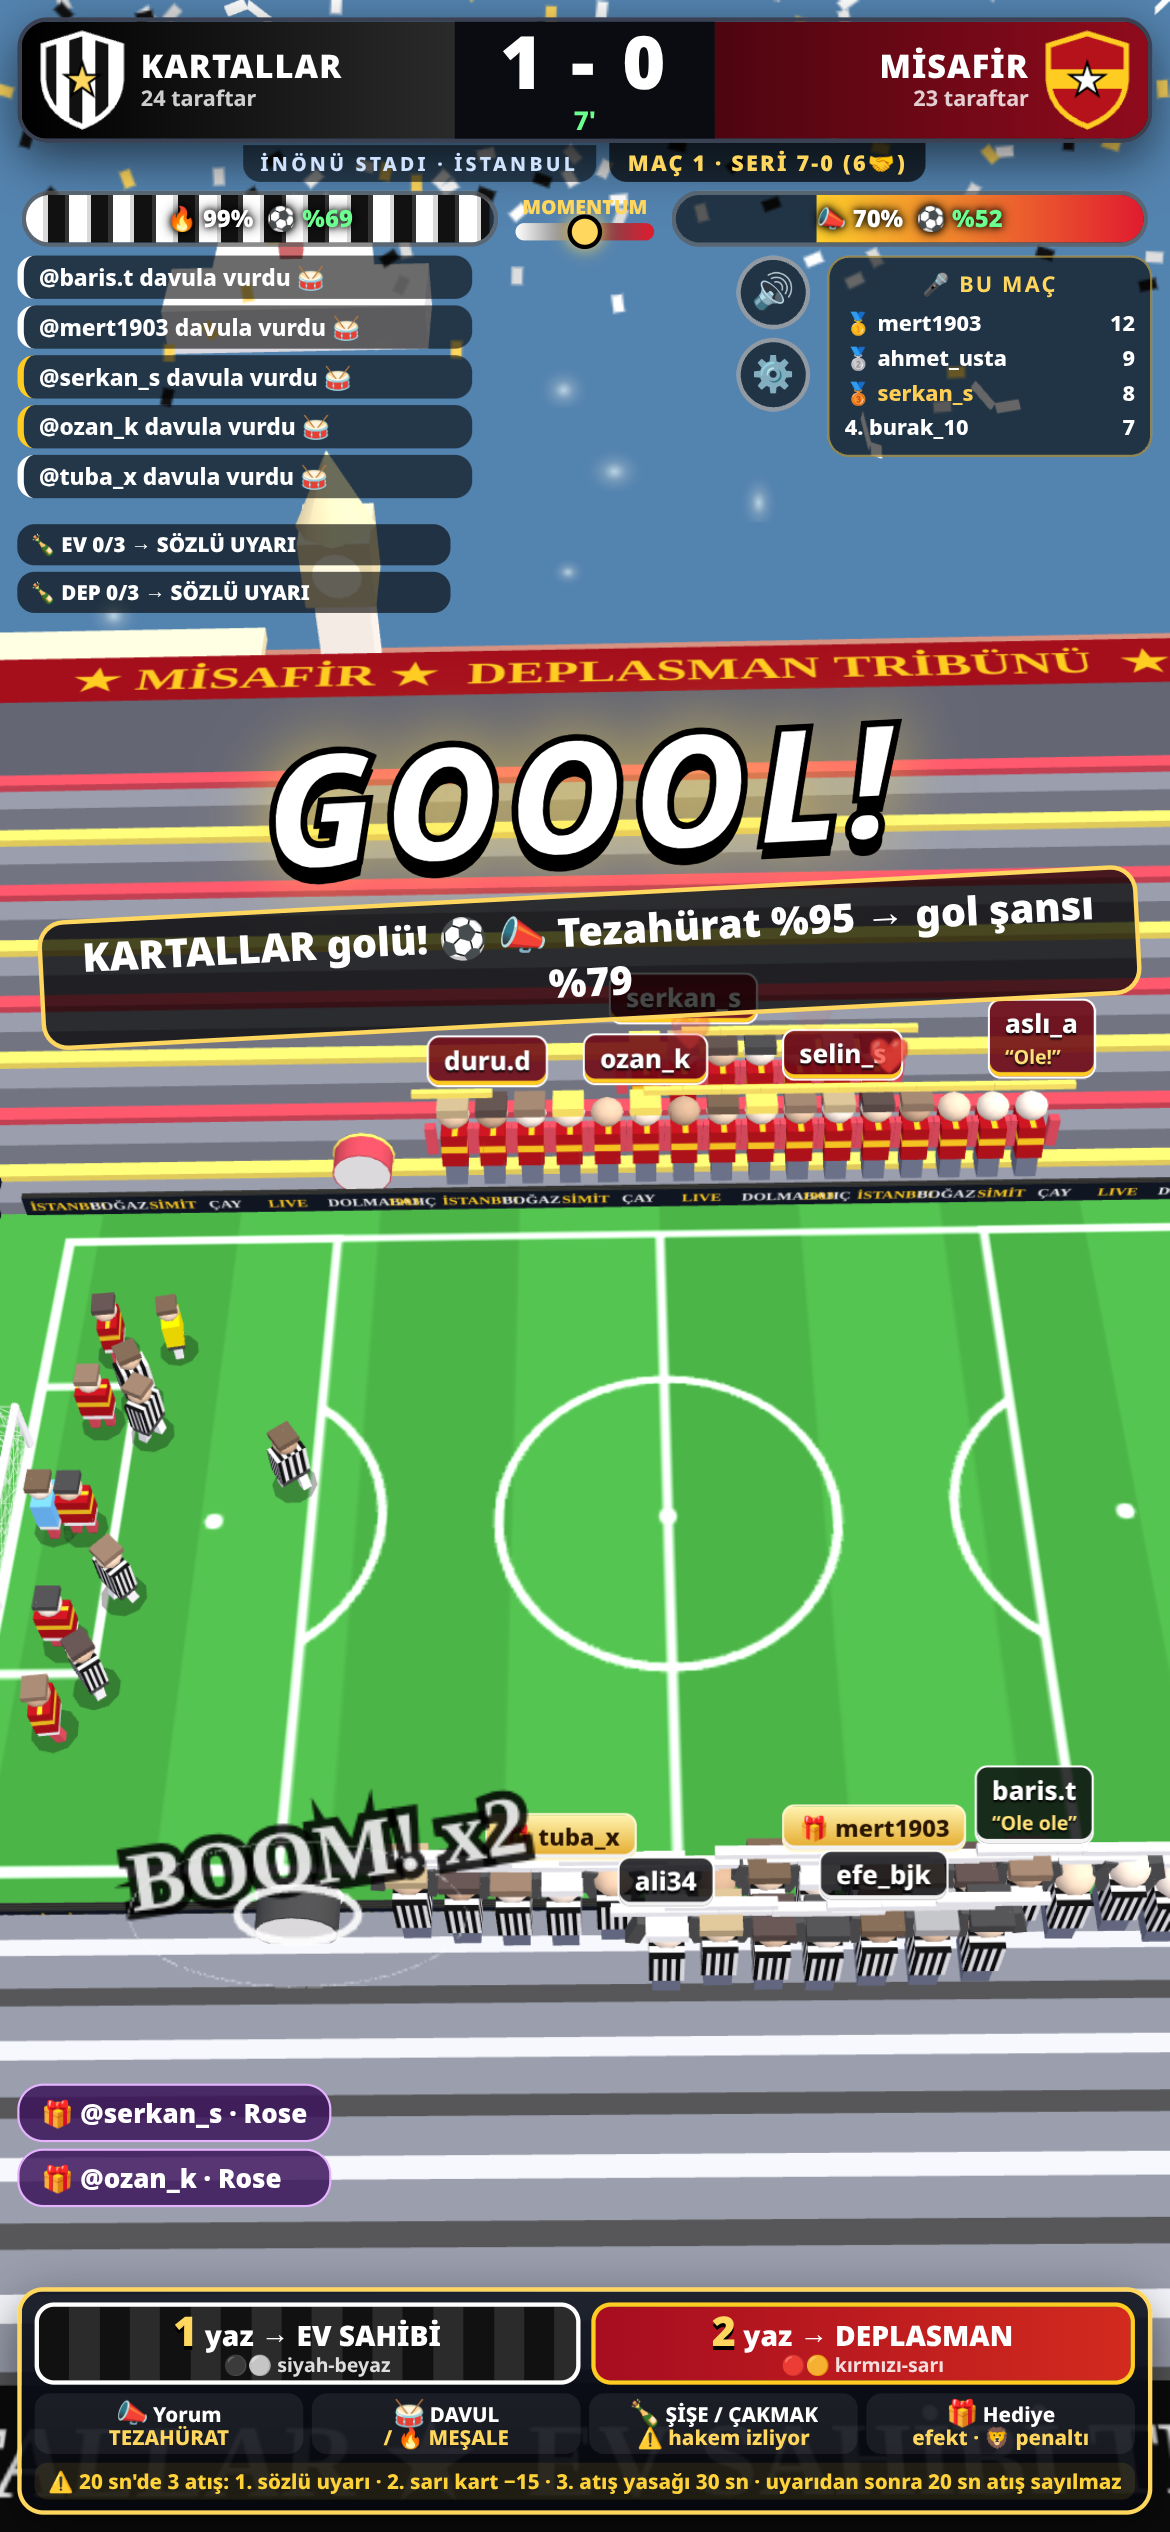
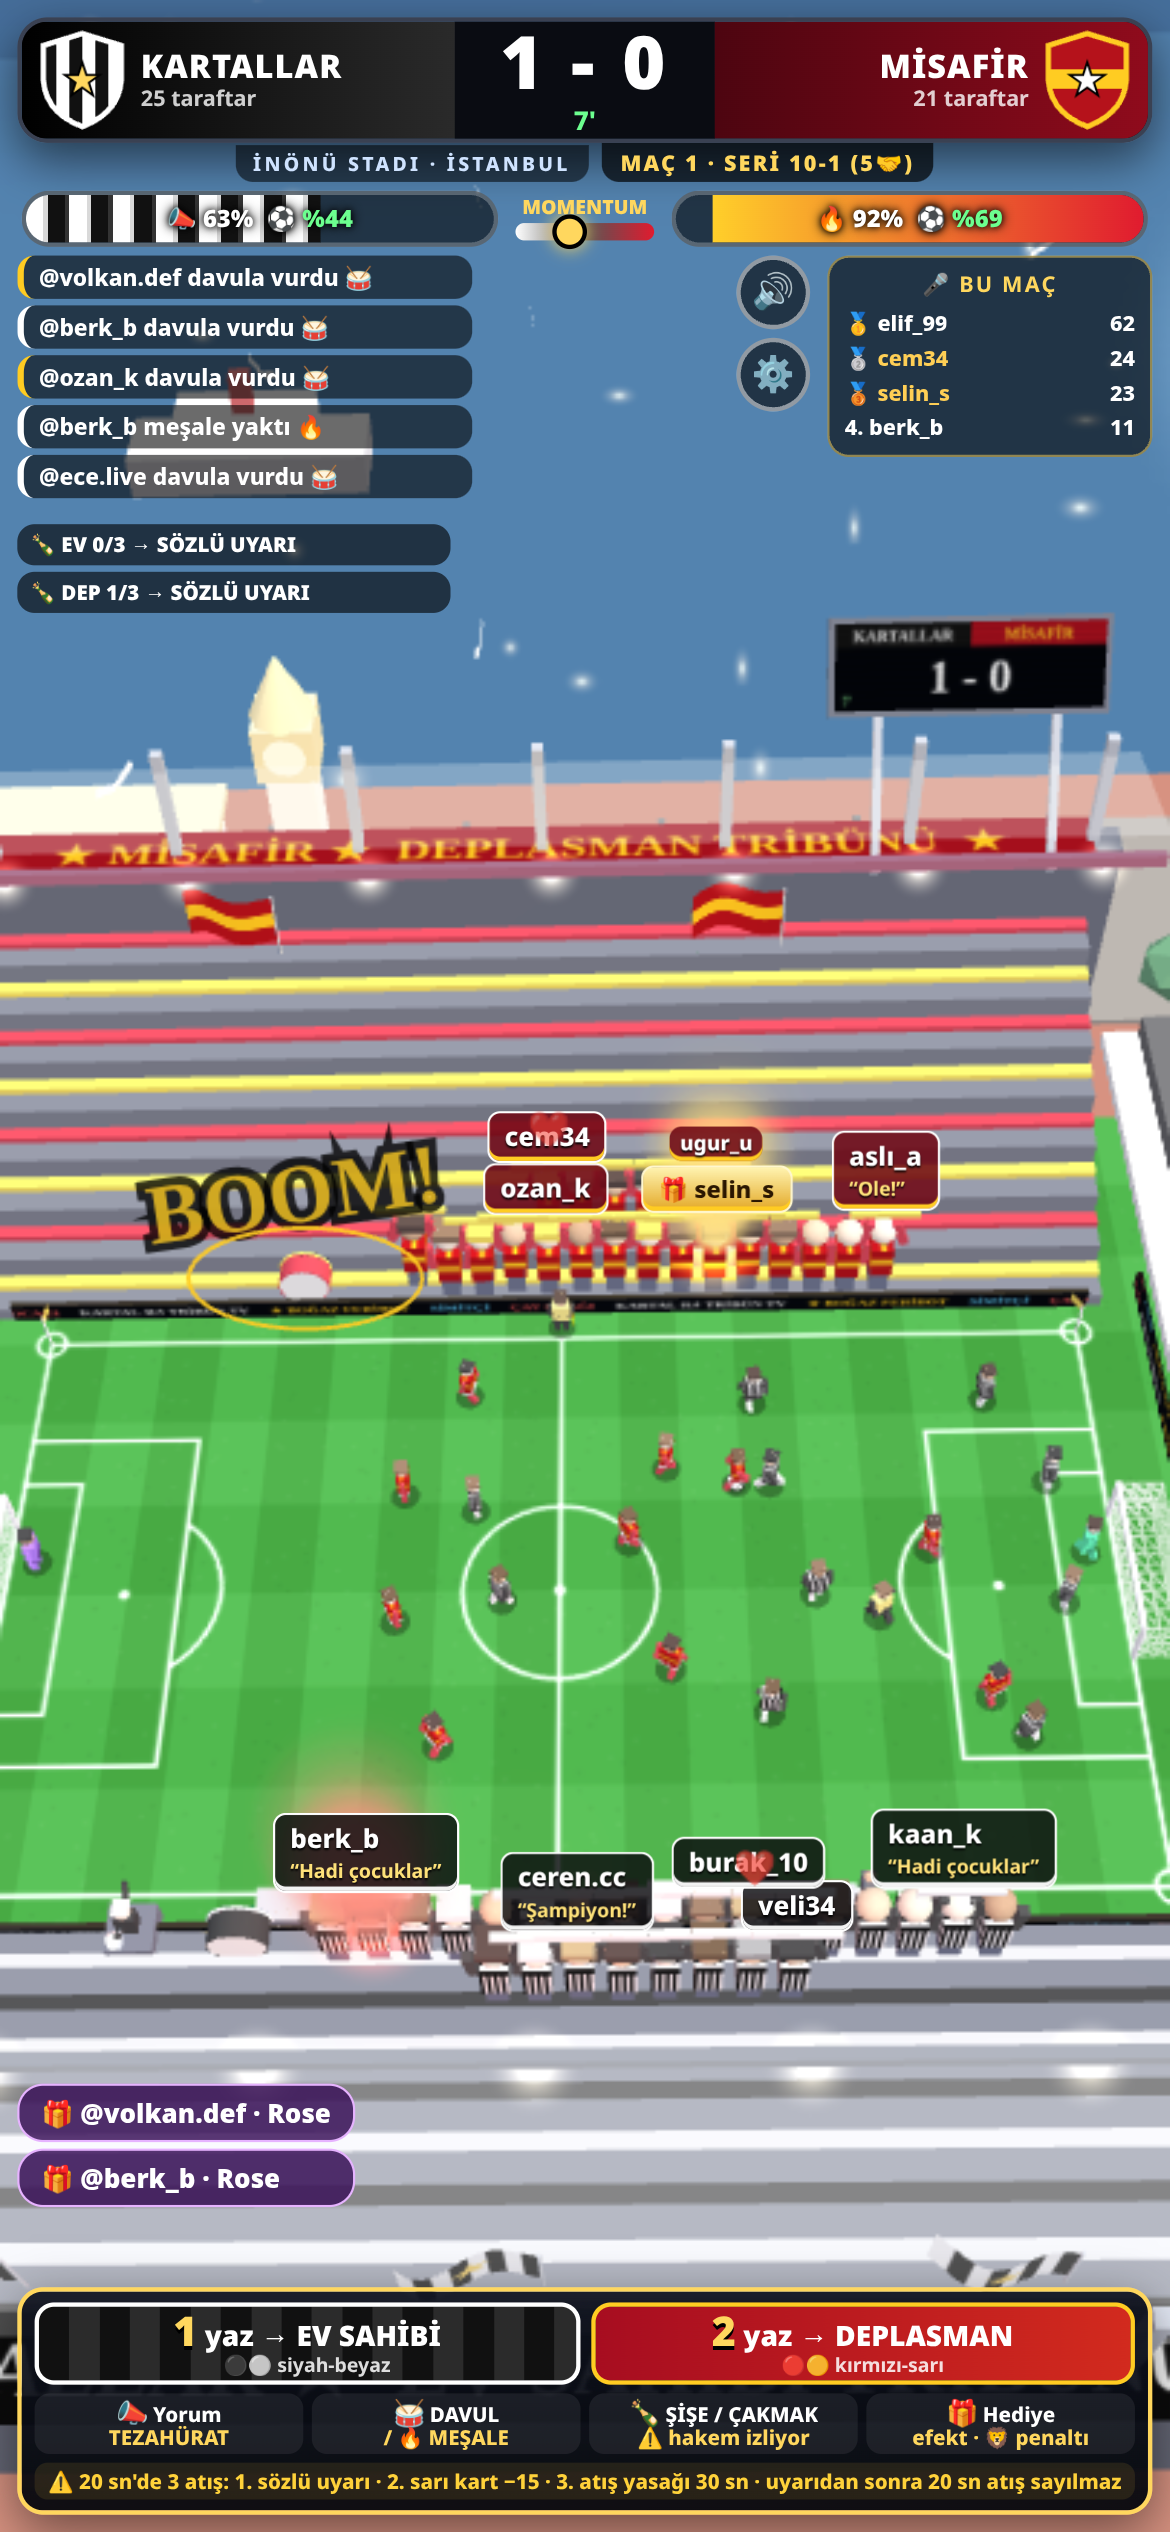
Tests: language-switch prompt check, faster deterministic page; 72/72 results

diff --git a/tests/acceptance.js b/tests/acceptance.js
@@ -18,7 +18,7 @@ async function page(b, q, opts = {}) {
 (async () => {
   const b = await puppeteer.launch({ executablePath: '/usr/bin/google-chrome', headless: 'new', protocolTimeout: 600000, args: ARGS });
   /* ---------- deterministic suite (clip mode = manual time stepping) ---------- */
-  const p = await page(b, '?clip=1');
+  const p = await page(b, '?clip=1&rskip=10');
   await p.evaluate(() => { window.S = (sec) => __step(Math.round(sec * 30), 1 / 30); window.E = (o) => handleLiveEvent(o); __seedCrowd(40); S(2); shotCooldown = 1e9; });
 
   // P4 word matching
@@ -59,6 +59,9 @@ async function page(b, q, opts = {}) {
   ok('P3 unassigned like/gift/comment: no seat, no boost to either side', un.noFan && un.noBoost, JSON.stringify({ noFan: un.noFan, noBoost: un.noBoost }));
   ok('P3 unassigned contribution is held and they get a pick-team prompt', un.held && un.prompt, un.promptText);
   ok('P3 held gift/likes go to the team they pick ("2" → away)', un.joinedAway && un.applied);
+  const relang = await p.evaluate(() => { const L = l => { CONFIG.lang = l; applyLang(); }; pickFlushT = -9; E({ type: 'like', userId: 'relang', username: 'relang', likeCount: 5 }); S(0.1);
+    const tr = document.getElementById('prompt').textContent; L('en'); const en = document.getElementById('prompt').textContent; L('tr'); return { tr, en, back: document.getElementById('prompt').textContent }; });
+  ok('E10 a visible pick-team prompt is re-rendered when the language is switched', /takımını/.test(relang.tr) && /pick a team/.test(relang.en) && relang.back === relang.tr, JSON.stringify(relang));
 
   // P1 penalty promised during a natural goal celebration
   const pen = await p.evaluate(() => {
